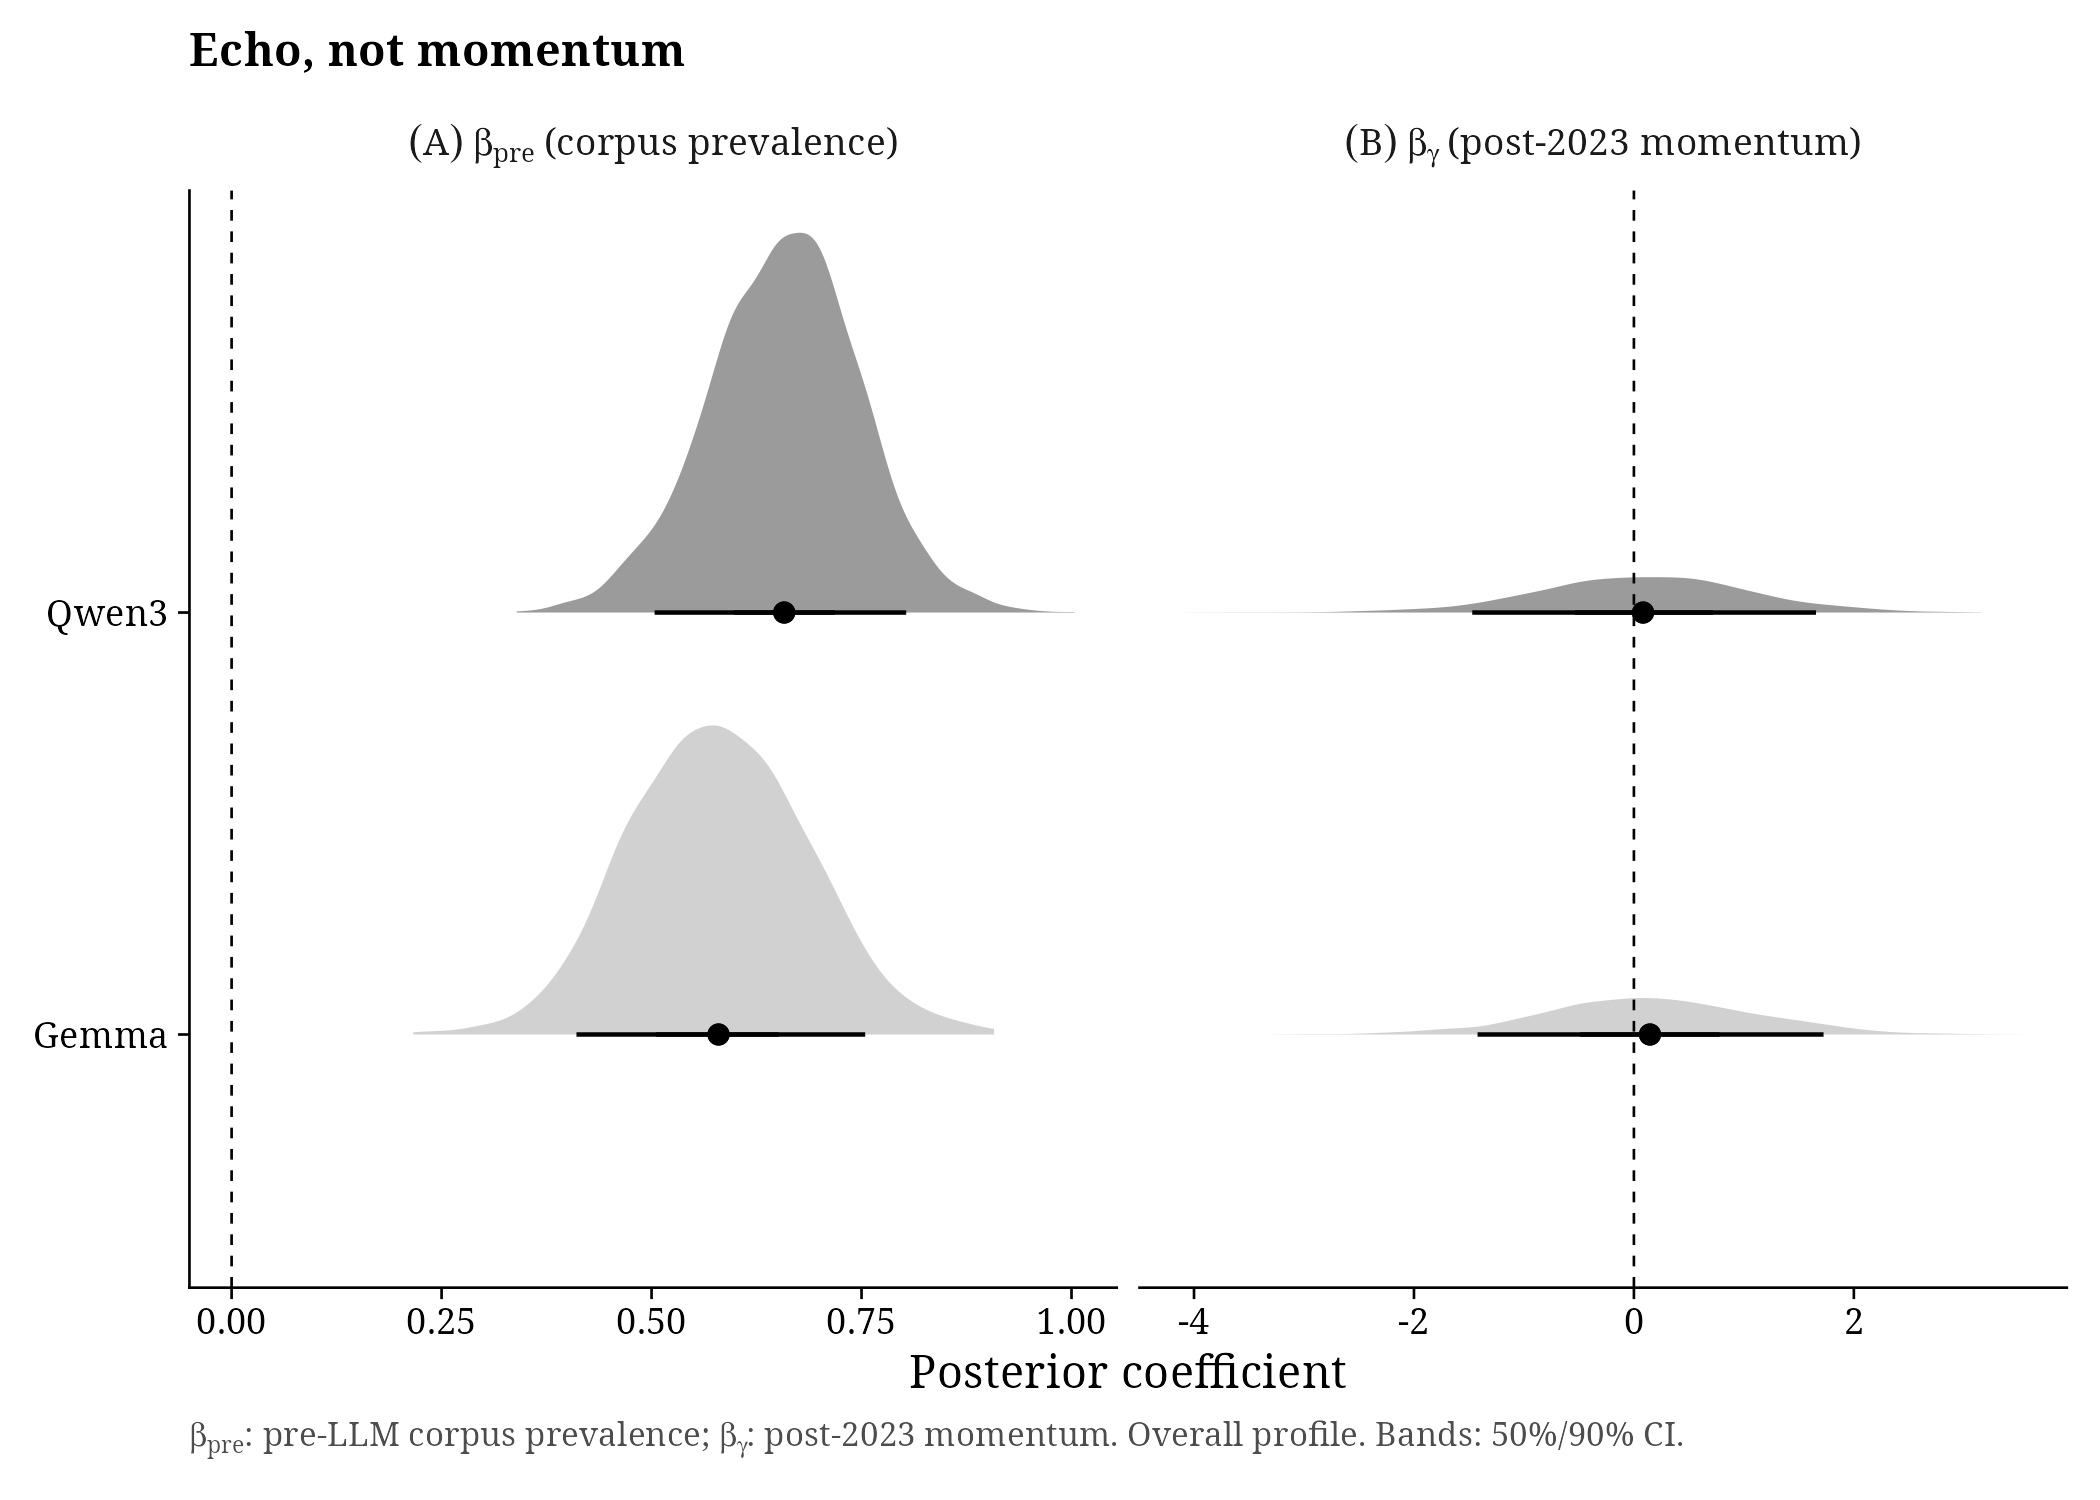
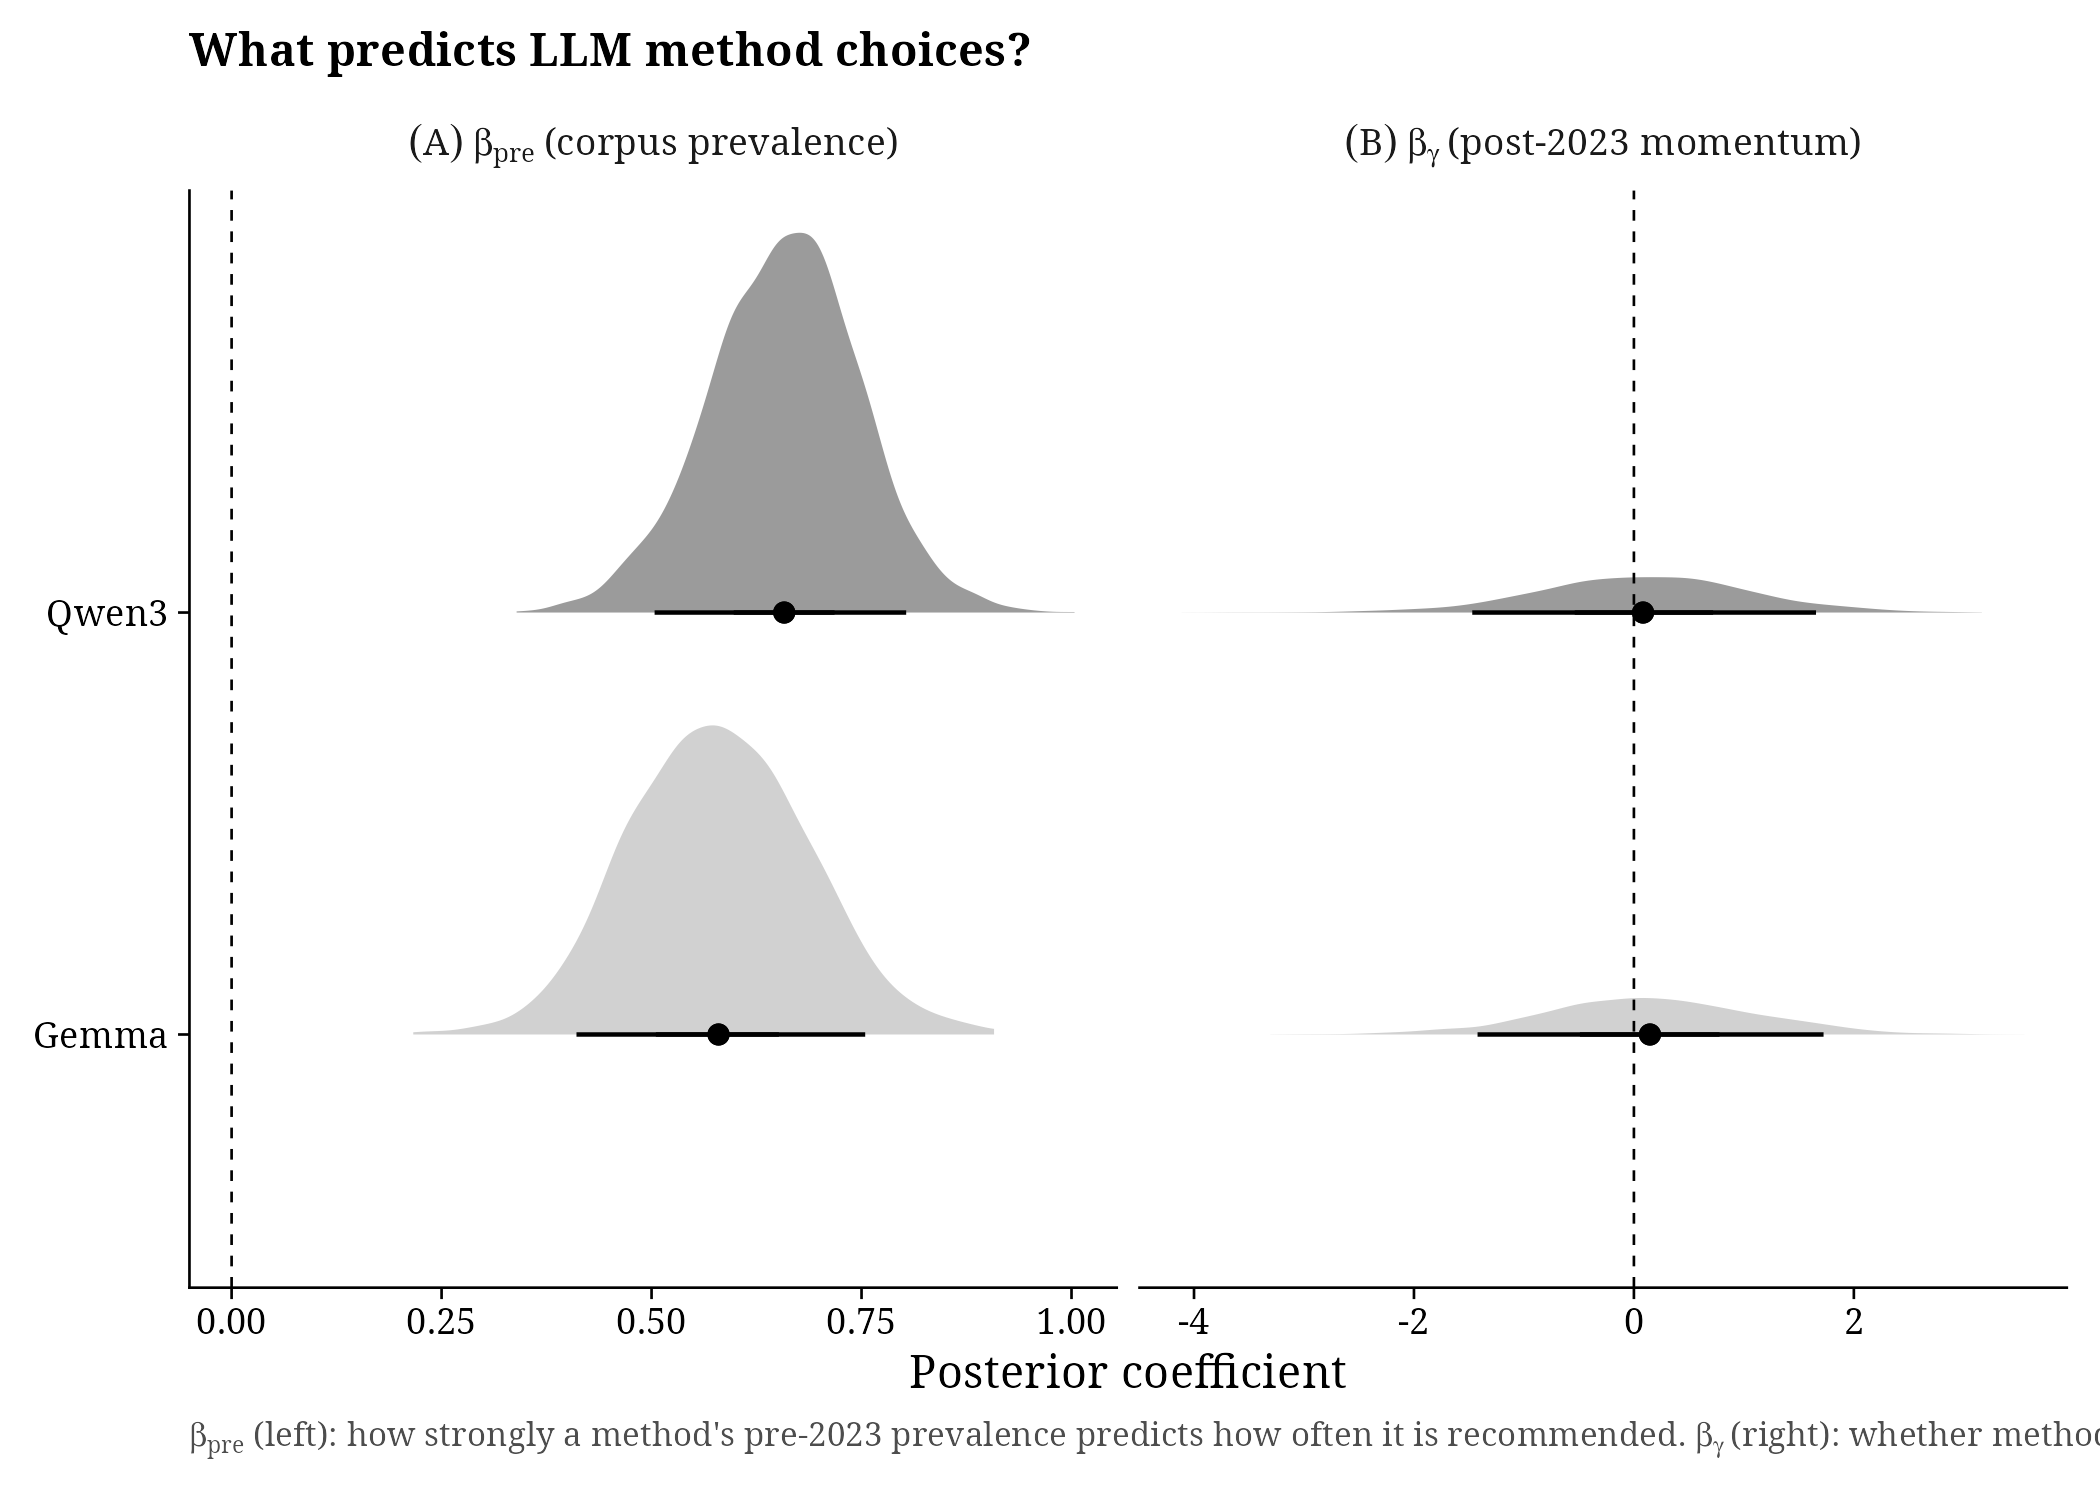
Edits to figures page

Changed region(s): [[0.1238, 0.9507, 1.0, 0.9813], [0.0929, 0.0, 0.4952, 0.0613]]

diff --git a/docs/main_text_figures.md b/docs/main_text_figures.md
@@ -129,9 +129,11 @@ published record so far).
 
 ---
 
-## Fig. 5 — Training-corpus prevalence vs post-2023 trajectory (NegBin2 posteriors)
+## Fig. 5 — What predicts LLM method choices?
 
 **Section:** Results (mean-collapse test, 4.4 / 3.4.2)
+
+**Manuscript caption:** Posterior distributions from a two-predictor count regression testing what drives LLM method recommendations. β_pre (left panel) measures how strongly a method's pre-2023 prevalence in the literature predicts how often it is recommended; β_γ (right panel) measures whether methods that gained momentum after 2023 are recommended more often. Results shown for both Qwen3 and Gemma. Dashed line: zero. Bands: 50% and 90% credible intervals; point: posterior mean.
 
 **What it shows:** A two-predictor negative binomial regression that separates
 two possible drivers of LLM method concentration. The outcome is n_rec (how many
@@ -159,7 +161,7 @@ which methods are currently trending.
 
 ---
 
-## Fig. 6 — Post-2023 trajectory coefficient by profile and model
+## Fig. 6 — Post-2023 effect by expertise profile
 
 **Section:** Results (mean-collapse test, profile gradient, 4.4)
 
